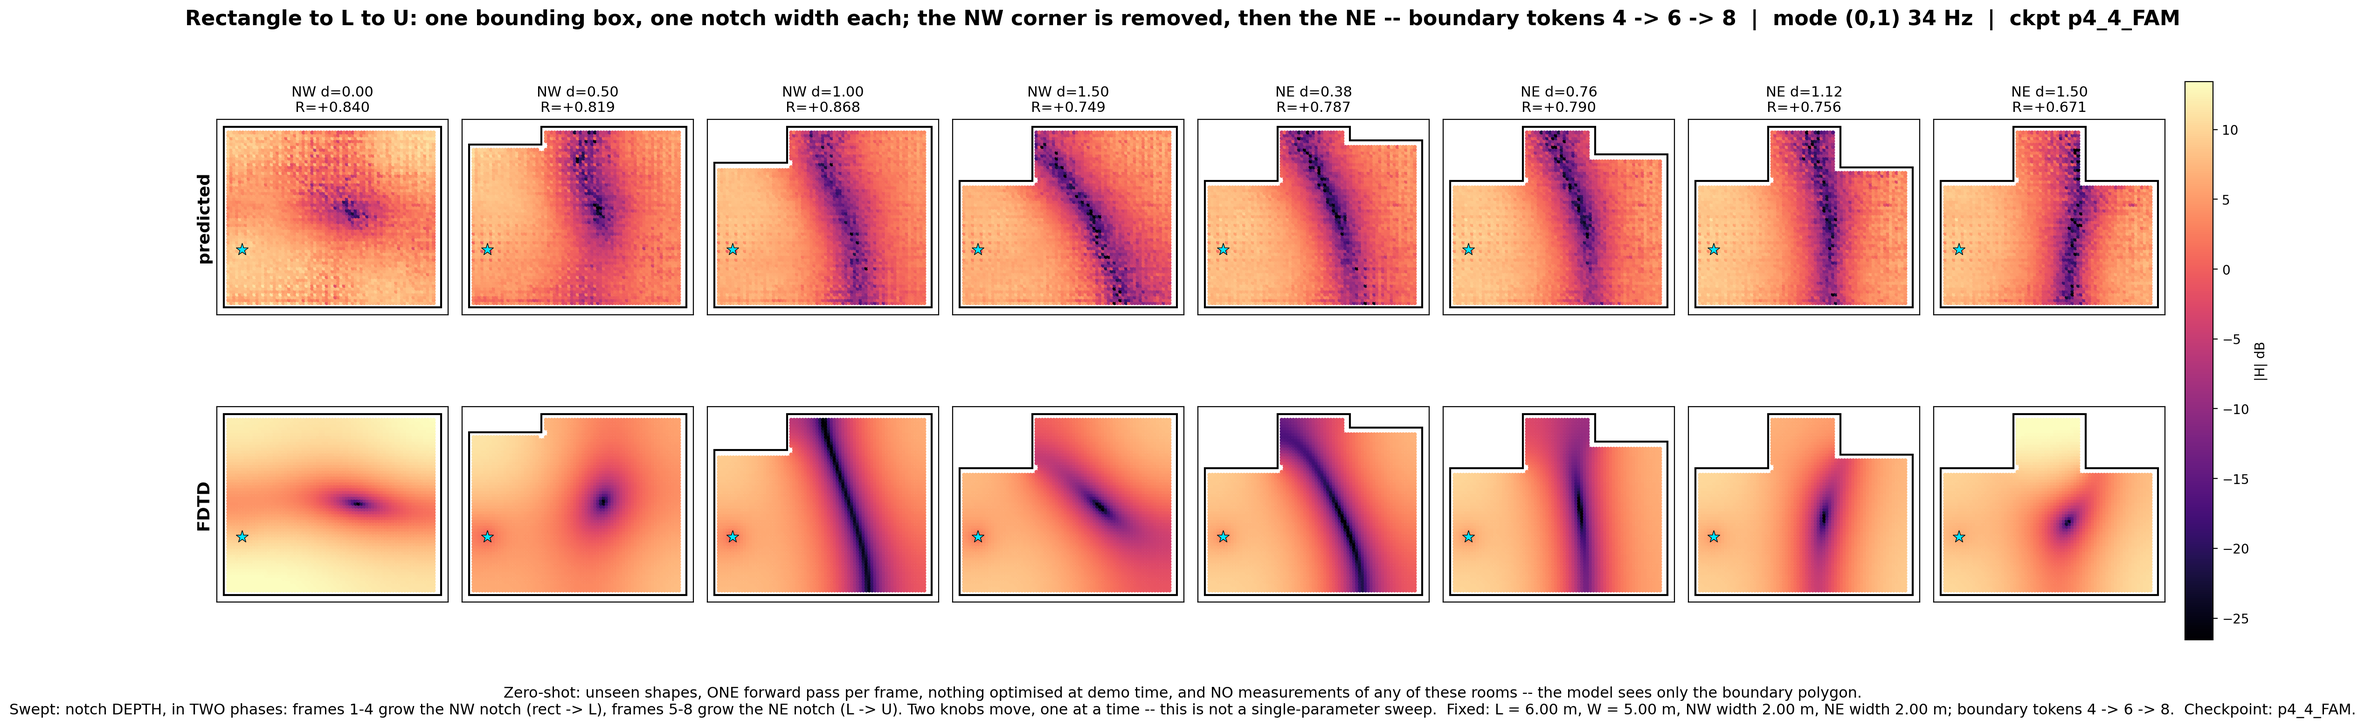
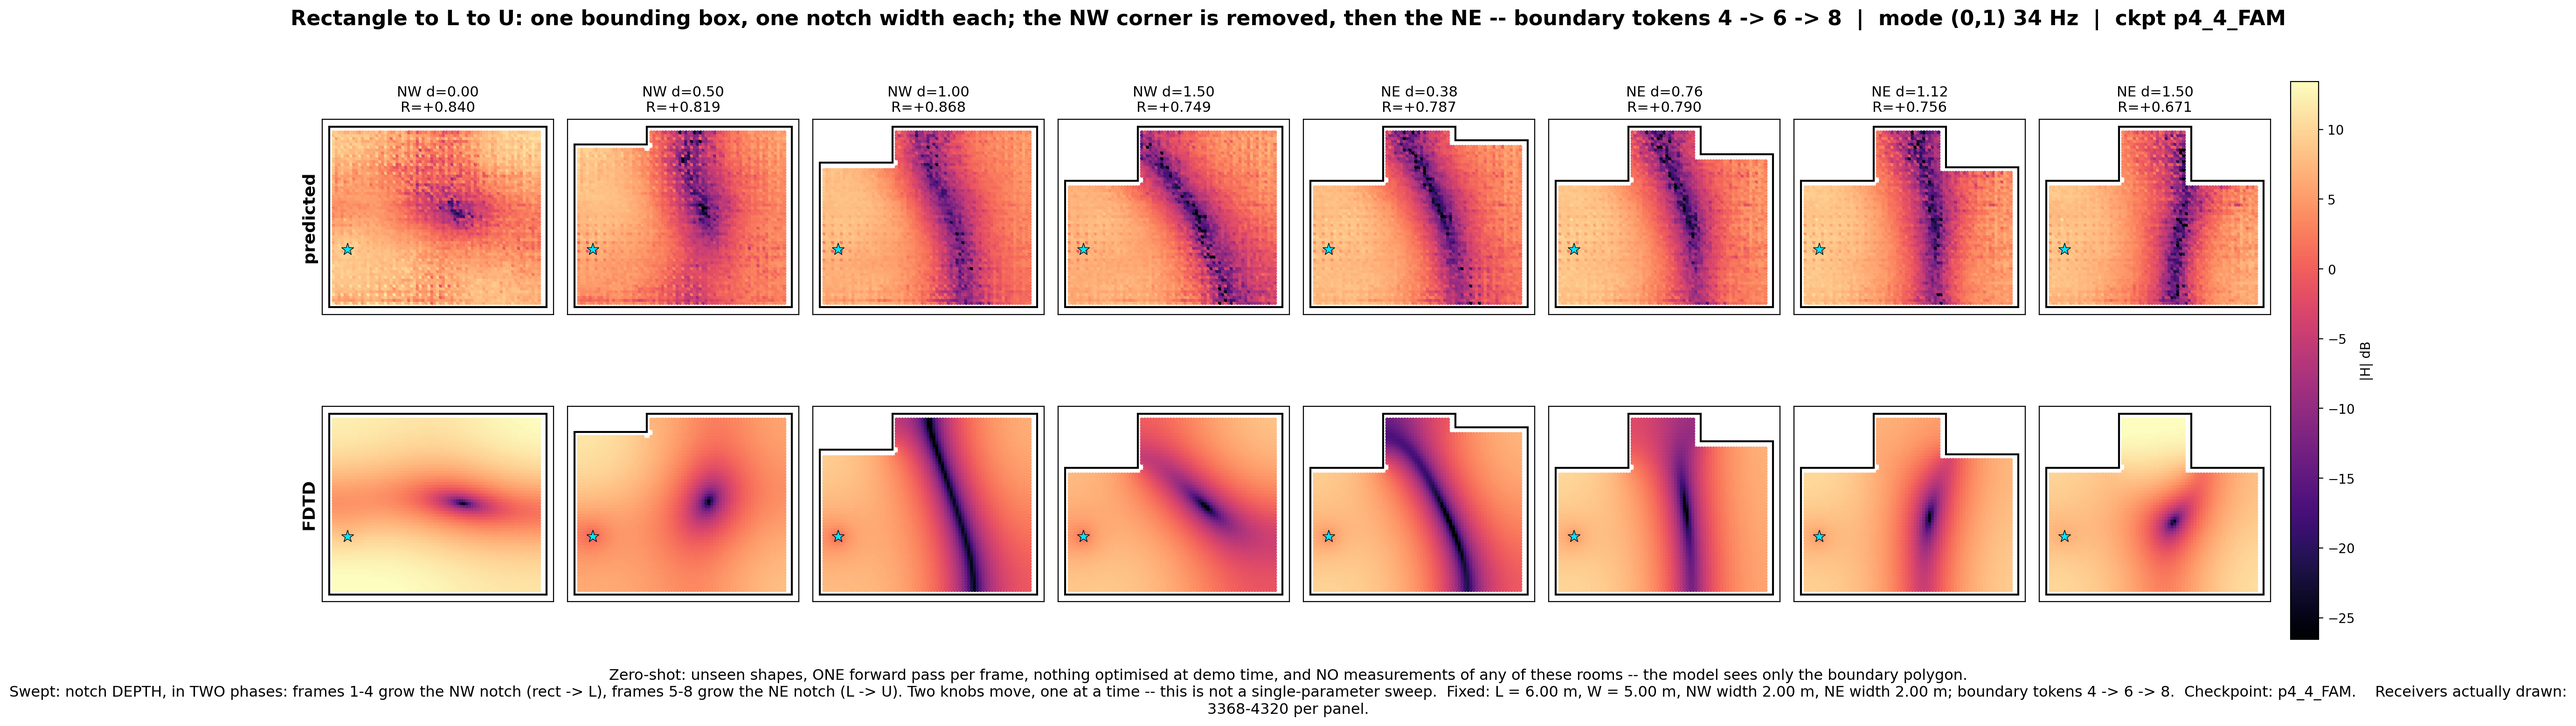
P4-4 demo v2: captions that MEASURE, and a blank-guard that could not detect blank (D91)
Three more review findings, all closed.

THE CAPTION ASSERTED WHAT THE FLAG DECIDED. The gallery caption stated the
FDTD had been re-run at figN's receiver density, while the corpus it read
came from --family-dir, which defaulted to data/track_p4_4_family (800
scattered receivers) and which no launcher passed. The five gallery rooms
exist in BOTH corpora under byte-identical filenames -- FamilyConfig.filename
is derived from geometry alone -- so no FileNotFoundError could fire. The
published figure is correct only because the dense directory was passed
explicitly on the command line.

Fixed structurally rather than by correcting a sentence: the caption now
APPENDS the receiver count measured from the rooms it draws (Receivers

diff --git a/scripts/p4_4_sweep_figures_v2.py b/scripts/p4_4_sweep_figures_v2.py
@@ -198,6 +198,17 @@ def fig_sweep(rooms, met, mode_idx, out, swept, fixed, arm, note="", col_w=COL_W
     fs_one = float(np.clip(0.6 * (np.pi / 4.0) * pitch_pt ** 2, 2.0, 40.0))
     freqs = [m["mode"][2] for m in met]
     show_f = (max(freqs) - min(freqs)) > 0.5      # the mode moves when the bbox is swept
+    # THE ARRAYS, NOT THE PIXELS. A frame whose values are all NaN scatters happily and draws a
+    # blank panel; `_assert_size`'s ink check is a pixel heuristic and cannot separate "blank
+    # panel" from "dark field". Checking finiteness here names the frame and the row.
+    for k, r in enumerate(rooms):
+        for which in ("P", "T"):
+            v = _db(r[which][:, bins[k]])
+            frac = float(np.isfinite(v).mean())
+            if frac < 0.5:
+                raise AssertionError(
+                    "frame {} ({}) row {} is {:.1%} finite at bin {} -- the panel would be "
+                    "blank".format(k, r["label"], which, frac, bins[k]))
     for k, r in enumerate(rooms):
         for row, which, lab in ((0, "P", "predicted"), (1, "T", "FDTD")):
             ax = axes[row, k]
@@ -229,8 +240,14 @@ def fig_sweep(rooms, met, mode_idx, out, swept, fixed, arm, note="", col_w=COL_W
     import textwrap
     fig_w_in = fig.get_size_inches()[0]
     cols = max(60, int(fig_w_in / 0.082))
+    # The receiver sampling is MEASURED from the rooms being drawn and appended, never asserted
+    # in prose. A caption that states a density can disagree with the arrays it labels -- that is
+    # exactly how the gallery came to claim a 0.08 m grid over 800 scattered points -- whereas a
+    # caption that counts them cannot.
+    nrx = [len(r["rx"]) for r in rooms]
+    meas = "  Receivers actually drawn: {}-{} per panel.".format(min(nrx), max(nrx))
     body = "\n".join("\n".join(textwrap.wrap(ln, cols)) if ln else ""
-                     for ln in CAPTION.format(swept, fixed, arm, note).split("\n"))
+                     for ln in (CAPTION.format(swept, fixed, arm, note) + meas).split("\n"))
     fig.text(0.5, 0.008, body, ha="center", fontsize=11.5)
     fig.savefig(out, bbox_inches="tight", facecolor="white")
     plt.close(fig)
@@ -248,8 +265,15 @@ def _assert_size(out):
             out, w, h, MIN_W, MIN_H))
     a = np.asarray(im.convert("L"))
     ink = float((a < 250).mean())
-    if ink < 0.02:
-        raise AssertionError("{} is {:.3%} ink -- effectively blank".format(out, ink))
+    # 0.02 was far too low to mean anything. A figure whose BOTH rows are entirely NaN still
+    # renders its title, axis labels, column headers and colourbar, and measures 6.8% ink -- so
+    # the old threshold would have passed a completely empty pair of rows. The real guard is the
+    # finite-data check in `fig_sweep`, which looks at the arrays rather than at pixels; this is
+    # the backstop, and it is set above the all-NaN floor.
+    if ink < 0.15:
+        raise AssertionError(
+            "{} is {:.1%} ink -- an all-NaN figure measures ~6.8%, so this is empty or "
+            "near-empty".format(out, ink))
     print("  {}  {}x{}  ink {:.1%}  {:.1f} MB".format(
         out, w, h, ink, Path(out).stat().st_size / 1e6), flush=True)
 
@@ -258,7 +282,13 @@ def main() -> int:
     ap = argparse.ArgumentParser()
     ap.add_argument("--sweep", required=True, help="a key of SWEEPS, or 'gallery'")
     ap.add_argument("--data-dir", default="data/track_p4_4_sweeps")
-    ap.add_argument("--family-dir", default="data/track_p4_4_family")
+    ap.add_argument("--family-dir", default="data/track_p4_4_sweeps",
+                    help="corpus for the gallery. Defaults to the SWEEP directory, not "
+                         "data/track_p4_4_family: the five gallery rooms exist in both, with "
+                         "identical filenames, at 800 scattered receivers in the family corpus "
+                         "and ~3k on a 0.08 m grid here. Defaulting to the family corpus made "
+                         "the no-flag invocation draw the sparse fields, and no FileNotFoundError "
+                         "can fire to say so because the names match.")
     ap.add_argument("--out", default="outputs/p4_4/demo/v2")
     ap.add_argument("--mode-idx", type=int, default=1,
                     help="which mode of the bounding box to draw; 1 = the lowest non-DC one, "
@@ -278,10 +308,9 @@ def main() -> int:
                  "room's mode (0,1)")
         fixed = ("five HELD-OUT rooms, one per family, chosen for comparable bounding boxes "
                  "(L 5.30-5.72 m, W 4.02-4.64 m) and a visible notch. The geometry is the "
-                 "family corpus's; the FDTD was re-run at figN's RECEIVER density (0.08 m "
-                 "grid, ~3-4k points) instead of the corpus's 800 scattered points, so the "
-                 "panels resolve the field. Same solver, same dx, same source -- only the "
-                 "sampling changed")
+                 "family corpus's; the FDTD was re-run at figN's receiver density instead of "
+                 "the corpus's 800 scattered points, so the panels resolve the field. Same "
+                 "solver, same dx, same source -- only the sampling changed")
         note = ("This is a SELECTED set: 5 of the 50 held-out family rooms, picked for "
                 "comparable bounding boxes and a visible notch, NOT the average room. For "
                 "context, the family evaluator's means over all 50 are rect +0.847, L +0.766, "

diff --git a/DECISIONS.md b/DECISIONS.md
@@ -958,3 +958,5 @@ Phase 1's 2D version reported MAE up to f_max = 2000 Hz because 2D modal density
 **D89 — the render cache was keyed on checkpoint + room filenames but NOT on the DATA DIRECTORY, and the same filename exists in two corpora at different receiver densities.** (a) **The hazard.** `p4_4_sweep_figures_v2.load_frames` cached on `(checkpoint, "|".join(filenames))`. The gallery rooms exist BOTH in `data/track_p4_4_family` (800 scattered receivers, the corpus the published family eval used) and, after the demo-v2 re-simulation, in `data/track_p4_4_sweeps` (~3-4k on a 0.08 m grid). Same filenames, same checkpoint, different arrays — so switching `--family-dir` would have silently redrawn the 800-point fields under a caption stating the dense ones, with no error anywhere. (b) **How close it came.** It did not reach a published figure only because the stale cache was deleted by hand before the dense re-render. That is not a control; it is luck, and it is the same shape as D73 — a parameter that changes the OUTPUT while leaving the cache/checkpoint identity untouched. (c) **The fix.** `data_dir` is now part of the cache blob and is checked on load; a cache written before the field existed is REFUSED rather than trusted, because "absent" cannot be distinguished from "wrong". The six existing caches were migrated by appending the member to the `.npz` (which is a zip of `.npy`s), with the value known rather than guessed, and each re-verified readable. (d) **The general rule, which is D73's rule applied to caches**: **a cache key must name every input that changes the cached value, not every input that changes the computation's identity.** The checkpoint identifies the model; it does not identify the data. Anything read from disk belongs in the key. (e) **Found by an adversarial review of the figure pipeline, not by the pipeline failing.** Three independent reviewers of three different dimensions all surfaced it.
 
 **D90 — marker size was scaled per frame by 1/n_rx, which drew the worst-scoring columns with the fattest dots.** (a) **The defect.** `fig_sweep` set `s = clip(12000/n_rx, 3, 30)` per frame. Every frame is sampled on the SAME 0.08 m grid and every panel shares ONE axis scale, so the correct dot size is identical in every column; `n_rx` varies only because the rooms have different AREAS. (b) **Why the direction matters.** Cutting a notch removes area, so `n_rx` falls monotonically along every sweep — and in both two-phase sweeps the frames with the most geometry removed are also the worst-scoring (s3a +0.840 -> +0.671, s3c +0.813 -> +0.705). Those frames were therefore drawn with the fattest, most overlapping markers and looked the SMOOTHEST. A per-column rendering difference with no physical cause, flattering exactly the columns that deserved it least. Magnitude was modest (<= 15% in diameter) and the `clip` at 3.0 also made it non-monotone, with s2's last three columns pinned while the first four were not. (c) **The fix.** One marker size for the whole row, derived from the receiver PITCH and the panel scale: `0.6 * (pi/4) * (RX_STEP * col_w * 72 / (Lmax + 0.4))^2` -- the size at which neighbouring receivers just touch, times 0.6 for legibility. All seven figures were re-plotted from cache; every metric is byte-identical, which confirms the change is rendering-only. (d) **Standing rule**: a visual property that varies across panels must be derived from something PHYSICAL that varies across panels. Deriving it from a proxy (here, receiver count standing in for density) silently couples the rendering to whatever else moves that proxy.
+
+**D91 — a caption must MEASURE what it describes, and a blank-figure guard set at 2% ink could not have detected a blank figure.** (a) **The caption defect, and how close it came.** The gallery's caption asserted "the FDTD was re-run at figN's receiver density (0.08 m grid, ~3-4k points)" as PROSE, while the corpus it read was chosen by a `--family-dir` flag that defaulted to `data/track_p4_4_family` (800 scattered receivers) and that no launcher passed. The five gallery rooms exist in BOTH corpora under byte-identical filenames -- `FamilyConfig.filename` is derived from geometry alone -- so no `FileNotFoundError` could fire to say the wrong one had been opened. The published figure is correct only because the dense directory was passed explicitly on the command line. (b) **The fix is structural, not a corrected sentence.** The caption now APPENDS the receiver count measured from the rooms it is drawing ("Receivers actually drawn: N-M per panel"), and the `--family-dir` default is the sweep directory. A caption that counts cannot disagree with the arrays it labels; a caption that asserts can, and did. (c) **The blank guard was theatre.** `_assert_size` rejected a figure below 2% ink. A figure whose BOTH rows are entirely NaN still renders its title, axis labels, column headers and colourbar and measures **6.8%** -- so the guard would have passed two completely empty rows. Measured, not assumed: the 800-receiver gallery rendered at 7.3%, barely above that floor. (d) **The real check looks at the ARRAYS.** `fig_sweep` now asserts that at least half of each frame's drawn values are finite, per frame and per row, and names the frame and row that fail; the ink threshold is retained as a backstop and raised to 15%, above the all-NaN floor. Both were verified to FIRE on a deliberately NaN-ed frame before being trusted -- `frame 3 (w=1.32) row P is 0.0% finite at bin 69`. (e) **Two standing rules.** **A figure's prose must be derived from the data it draws wherever the two could disagree.** And **a guard whose firing has never been observed is not known to work**: this one had a threshold three times too low and nobody would have discovered it from a passing run.

diff --git a/outputs/p4_4/demo/v2/FIGURE_MANIFEST.md b/outputs/p4_4/demo/v2/FIGURE_MANIFEST.md
@@ -166,7 +166,7 @@ Mean spatial r **+0.7351**, mean band LSD **6.18 dB** over the 8 frames.
 https://raw.githubusercontent.com/harshvardhan-takawale/adaptable-acoustic-fields/main/outputs/p4_4/demo/v2/fig_gallery.png
 
 * **Swept**: nothing -- this is a gallery, not a sweep: five different room FAMILIES (rectangle, L, T, double-notch, U) side by side, each drawn at its own room's mode (0,1)
-* **Fixed**: five HELD-OUT rooms, one per family, chosen for comparable bounding boxes (L 5.30-5.72 m, W 4.02-4.64 m) and a visible notch. The geometry is the family corpus's; the FDTD was re-run at figN's RECEIVER density (0.08 m grid, ~3-4k points) instead of the corpus's 800 scattered points, so the panels resolve the field. Same solver, same dx, same source -- only the sampling changed
+* **Fixed**: five HELD-OUT rooms, one per family, chosen for comparable bounding boxes (L 5.30-5.72 m, W 4.02-4.64 m) and a visible notch. The geometry is the family corpus's; the FDTD was re-run at figN's receiver density instead of the corpus's 800 scattered points, so the panels resolve the field. Same solver, same dx, same source -- only the sampling changed
 * **Checkpoint**: `outputs/p4_4/p4_4_FAM/ckpt_iter0060000.pt` (iter 60000)
 * **Mode drawn**: index 1 of the bounding box's analytic list
 
